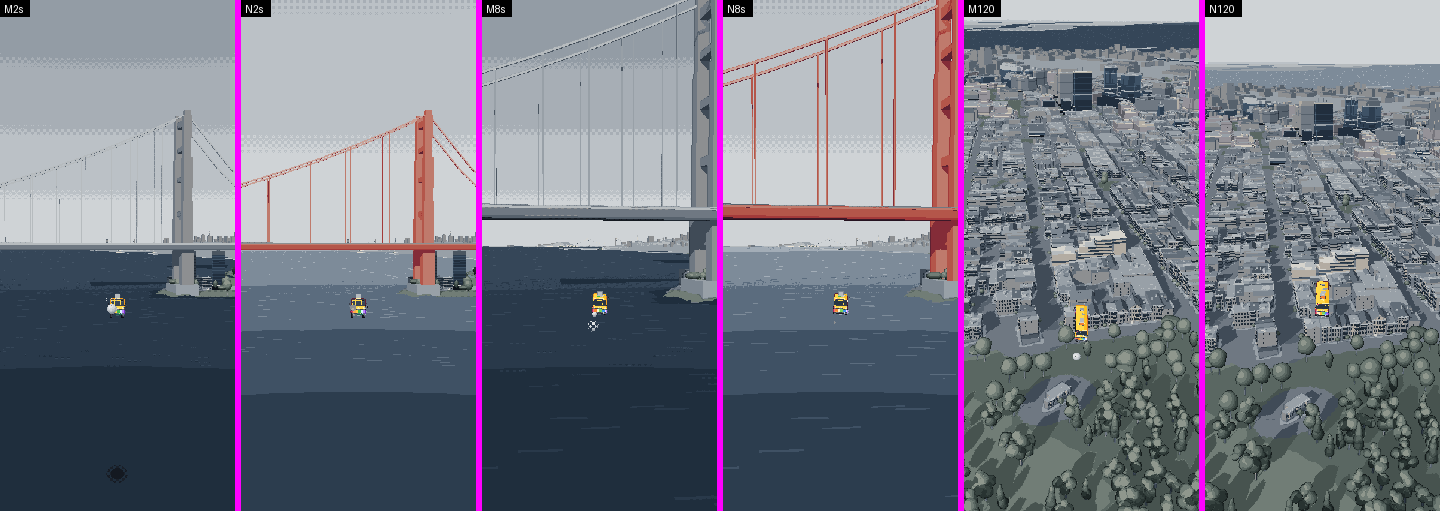
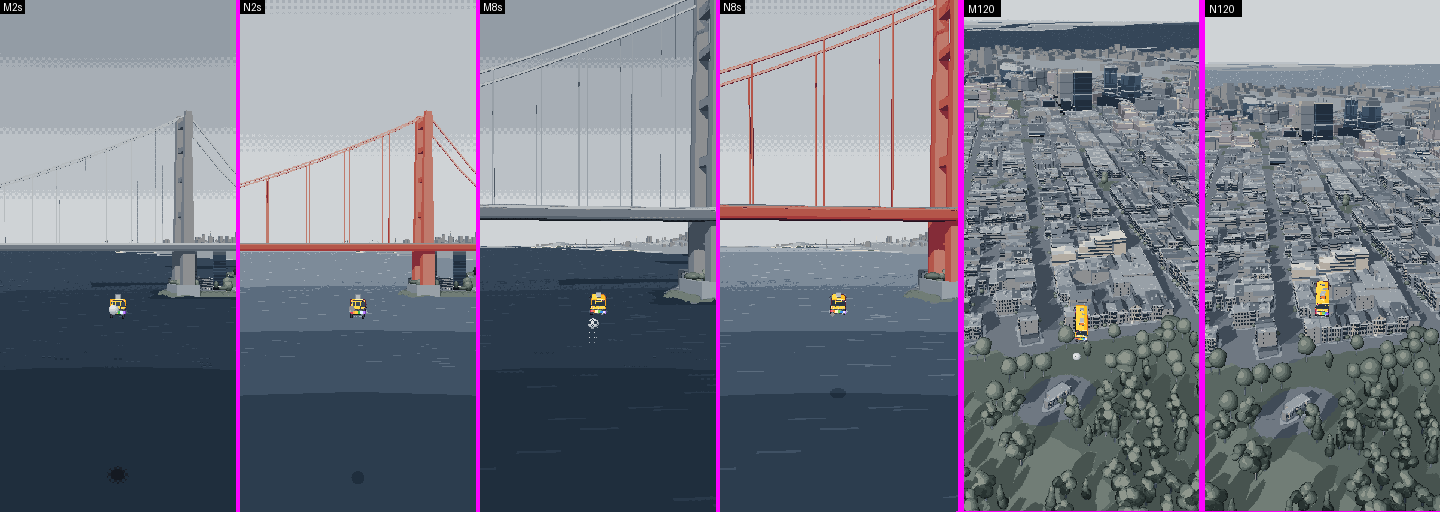
Merge review fixes: no sign behind a far landmark, the drop shadow on the bay
- Street sign: a spot that passed every other test (ring or fallback,
  landmark or not) also needs its blade's bottom edge seen over its whole
  sightline at five points across it (bladeSeen). The pole test samples only
  the first 60 m, and on Telegraph Hill the blade stood 310 m out behind Coit
  Tower and read "TELEGRA / H". The test uses the real footprints and
  landmark surfaces (roofAt, landmarkSurfaceAt): the obstacle grid stands
  ~10 m proud of a facade and hid the Ferry Building's readable sign. The
  non-landmark fallback also gets the whole-blade-in-frame test.
- Drop shadow: the resolve also takes the WATER ramp (the bay plane writes no
  outline flag), so the bus has its shadow over the bay in the opening.
- Docs (DECISIONS, ARCHITECTURE, HANDOFF) and shots/look sheets + numbers.

diff --git a/src/main.ts b/src/main.ts
@@ -373,7 +373,8 @@ async function boot() {
   // keep a game pixel at that distance. A re-splat of the same block flips the same sign. It stands at
   // its true depth (the painted houses in front of it keep covering it), preferring a spot whose pole
   // is seen to its foot; else its pole grows until the blade clears the roofs in front (never a blade
-  // hovering over the roofs with no pole).
+  // hovering over the roofs with no pole). Nothing farther along its sightline (a tower, a landmark up
+  // the hill) may hide any of the blade either: no sign beats half a blade.
   const pendingSigns: Array<{ ref: BuildingRef; hue: number; cx: number; cz: number; r: number; at: number; tries: number }> = [];
   let signSpot: { x: number; y: number; z: number; facing: number; scale: number; bias: boolean; pole: number; cx: number; cz: number; r: number; text: string; until: number } | null = null;
   /** How far (m) a point must rise for its sightline to the camera to clear the roofs and crowns over
@@ -409,6 +410,26 @@ async function boot() {
     return true;
   };
   const bladeTmp = [0, 0, 0, 0];
+  /** The blade's bottom edge (height yb, (hx, hz) = its half width along the view's right) is seen over
+   *  its whole sightline to the camera (every 6 m, to 90% of the way), at five points across it: a tower
+   *  or landmark more than 60 m in front (past what sightLift samples) hid half of the blade ("TELEGRA / H"
+   *  behind Coit Tower). Buildings and landmarks by their real footprints and surfaces, not the obstacle
+   *  grid: that is a collision grid (8 m cells, footprints grown 3-6 m) standing ~10 m proud of a facade,
+   *  and a sign on the Ferry Building's apron read as hidden by the building behind it. Only for a spot
+   *  that passed every other test (it samples the whole line). */
+  function bladeSeen(x: number, yb: number, z: number, hx: number, hz: number): boolean {
+    const c = camera.position;
+    for (let k = -1; k <= 1; k += 0.5) {
+      const px = x + hx * k, pz = z + hz * k;
+      const d = Math.max(1, Math.hypot(c.x - px, c.y - yb, c.z - pz));
+      for (let s = 6; s < 0.9 * d; s += 6) {
+        const t = s / d, qx = px + (c.x - px) * t, qz = pz + (c.z - pz) * t;
+        // (half a meter of slack at the blade, as sightLift's 0.5 m)
+        if (Math.max(city.roofAt(qx, qz) ?? -Infinity, city.landmarkSurfaceAt(qx, qz)) > yb + (c.y - yb) * t + 0.5 * (1 - t)) return false;
+      }
+    }
+    return true;
+  }
   const signFwd = new THREE.Vector3();
   const SIGN_RING: ReadonlyArray<readonly [number, number]> = [[0, 0], [6, 0], [-6, 0], [0, 6], [0, -6], [12, 0], [-12, 0], [0, 12], [0, -12], [9, 9], [-9, 9], [9, -9], [-9, -9]];
   /** Show (or re-flip) the sign of a blast at (cx, cz) of radius r. False: no open spot in frame yet, ask
@@ -482,6 +503,8 @@ async function boot() {
             if (Math.abs(signNdc.x) > 0.72 || signNdc.y > 0.7 || signNdc.y < -0.6 || signNdc.z > 1) continue;
             // (the whole blade in the frame, and never over a landmark primary's box)
             if (!bladeBox(x, y, z, hw, scale, pole, sx, sz, bladeTmp) || bladeTmp[0] < -0.96 || bladeTmp[2] > 0.96 || overLm(bladeTmp)) continue;
+            // (and nothing farther in front hides it: the pole test above sees only the first 60 m)
+            if (!bladeSeen(x, yb + pole, z, cx0, cz0)) continue;
             found = { x, y, z, facing: Math.atan2(-fx, -fz), scale, bias: true, pole, cx, cz, r, text, until: 0 };
             break;
           }
@@ -494,7 +517,8 @@ async function boot() {
         // far toward an end as the frame allows: off its box on screen if it can, else at least off its
         // middle (the landmark is the bloom; MAIN stood the sign at the middle of its face). Any other
         // primary: its own front only when that stands clear of the blast; inside it the blade would cover
-        // the bloom: then no sign this time.
+        // the bloom: then no sign this time. Either way only a blade wholly in the frame and seen over its
+        // whole sightline: else no sign (half a blade behind a tower reads as a glitch, not a name).
         if (tries < 2) return false;
         const f = lm ? city.edgeToward(ref, flight.x, flight.z) : city.frontOf(ref);
         const ex = -f.nz, ez = f.nx;
@@ -507,9 +531,9 @@ async function boot() {
             if (!lm && Math.hypot(gx - cx, gz - cz) < r + 4) continue;
             if (city.groundClassAt(gx, gz) === Ground.WATER || city.roofAt(gx, gz) !== null) continue;
             const gy = city.groundAt(gx, gz);
+            if (!bladeBox(gx, gy, gz, hw, 1, 0, sx, sz, bladeTmp) || bladeTmp[0] < -0.96 || bladeTmp[2] > 0.96 || bladeTmp[1] < -0.96 || bladeTmp[3] > 0.7) continue;
+            if (!bladeSeen(gx, gy + T.poleHeight - 1, gz, sx * hw, sz * hw)) continue;
             const spot = { x: gx, y: gy, z: gz, facing: Math.atan2(f.nx, f.nz), scale: 1, bias: true, pole: 0, cx, cz, r, text, until: 0 };
-            if (!lm) { found = spot; break; }
-            if (!bladeBox(gx, gy, gz, hw, 1, 0, sx, sz, bladeTmp) || bladeTmp[0] < -0.96 || bladeTmp[2] > 0.96 || bladeTmp[3] > 0.7) continue;
             if (!overLm(bladeTmp)) { found = spot; break; }
             spare ??= spot;
           }

diff --git a/src/render/PixelPipeline.ts b/src/render/PixelPipeline.ts
@@ -917,8 +917,9 @@ void main() {
   }
   bool heroRamp = busY || abs(ramp - RAMP_BUS_BLACK) < 0.5;
   // the hero's drop shadow: whatever faces up below the bus, inside an oval about its size, a ramp step
-  // darker in its own ramp (paint too: no grey blob punched into the bloom)
-  if (uHeroShadow.w > 0.0 && outlineable && !fogged && !heroRamp) {
+  // darker in its own ramp (paint too: no grey blob punched into the bloom). The open water too: the bay
+  // plane isn't outlineable, but over the bay (the opening's Golden Gate shot) it is the only height cue.
+  if (uHeroShadow.w > 0.0 && (outlineable || abs(ramp - ${Ramp.WATER}.0) < 0.5) && !fogged && !heroRamp) {
     vec3 cf = -normalize(vec3(uCamWorld[2].xyz));
     vec3 P = uCamPos + dir * (depth / max(dot(dir, cf), 0.05));
     vec2 bq = P.xz - uHeroShadow.xy;

diff --git a/HANDOFF.md b/HANDOFF.md
@@ -63,7 +63,7 @@ including merging into `main`.** None of the branches below has been merged yet.
 | `main` | preview v6 | blast, altitude/yoke, LiDAR towers, feel polish, 390 px frame, fog off, snappier springs, design docs | the base for everything |
 | `feat/facade` | built, NOT reviewed (12 commits) | facade families + style table + icon overrides (`src/world/towerStyles.ts`), bases/crowns, facade LOD by size on screen, painted towers (L2 hanging gardens, L3 bands), Coit Tower, Ferry Building, 181 Fremont spire (`props/landmarks.ts`), `tools/facade-shots.mjs` | review it (shots), fix, merge FIRST |
 | `fix/landmarks` | main merged in, review fixed, ready to merge (desktop session, 2026-10-23) | `City.addLandmarkBuilding`, paint reserve + its own name-keyed store, landmark paint (flood/L1-L3), glint, Transamerica + Sutro + Coit Tower + the Ferry Building paintable, 181 Fremont's spire paints with its tower | merge into main (its DECISIONS "Merged with main" has the numbers) |
-| `polish/look` | main merged in (facade + landmarks), review re-checked on the GPU and fixed, ready to merge (desktop session, 2026-10-23) | sky band, sign beside the blast, hero ink edge + headlight, drop shadow, puffs, GGB International Orange (`BRIDGE_ORANGE` row 23; `RAMP_COUNT` 48), water, tree crowns, one sky function shared with the facades, `tools/look.mjs` + `lookstat.py` | merge into main (its DECISIONS "Look polish" has the 390 px numbers, MAIN vs the merge) |
+| `polish/look` | main merged in (facade + landmarks), review re-checked on the GPU and fixed; merge review's two findings fixed (a sign half hidden behind a far landmark, no drop shadow over the bay), ready to merge (desktop session, 2026-10-24) | sky band, sign beside the blast, hero ink edge + headlight, drop shadow, puffs, GGB International Orange (`BRIDGE_ORANGE` row 23; `RAMP_COUNT` 48), water, tree crowns, one sky function shared with the facades, `tools/look.mjs` + `lookstat.py` | merge into main (its DECISIONS "Look polish" has the 390 px numbers, MAIN vs the merge) |
 | `feat/controls` | built, NOT reviewed (15 commits) | tilt-to-fly default on phones (`Tilt.ts`, fused attitude, recenter), touch fallback, keyboard, hold-to-charge + turbo in `Input.ts` (the INPUT CONTRACT), turbo gears G0-G3 (G2/G3 locked behind `config.turbo.worldTravel`), turbo FX + audio, `src/ui/Hud.ts`, `tools/controls.mjs` | review, merge before supersplat |
 | `feat/supersplat` | built, mid-QA (8 commits) | hold-to-charge (10 s), mega blast on early release, firehose (~4 s), 60 s cooldown, `SuperSplat.ts`/`SuperFx.ts`/`SuperMeter.ts`/`superSfx.ts`, `tools/supersplat.mjs` | finish QA, merge after controls: controls' gesture replaces supersplat's minimal hold; mount SuperMeter in `hud.slot('super')` |
 | `polish/perf` | paused mid-task (12 commits) | sun-pass caster proxy, 8 m wall columns, hidden party walls, depth-only sun pass, culled far chunks, budgeted streaming, prewarm, `tools/perf-pass.mjs` | finish + measure, merge after the above |

diff --git a/DECISIONS.md b/DECISIONS.md
@@ -903,6 +903,24 @@ cross-checked in the browser with `tools/feel.mjs`.
   sign stands anew beside this blast (the painted regression frame had two
   "ALAMO SQUARE" blades side by side, and a reused spot in front of the next
   blast's paint).
+  Nothing farther along the sightline may hide the blade either (merge
+  review): the pole test samples only the first 60 m, and on Telegraph Hill
+  (a tap from the east) the "TELEGRAPH HILL" blade stood 310 m out behind
+  Coit Tower's base and read "TELEGRA / H". A spot that passed every other
+  test (ring or fallback, landmark or not) now also needs its blade's bottom
+  edge seen over its whole sightline at five points across it
+  (`bladeSeen`), else the next spot, else no sign. That test uses the real
+  footprints and landmark surfaces (`roofAt`, `landmarkSurfaceAt`), not the
+  obstacle grid: that is a collision grid (8 m cells, footprints grown
+  3-6 m) and stands ~10 m proud of a facade, so it hid the Ferry
+  Building's readable sign on its own apron. Trees still count only in the
+  first 60 m. Hill poses at +3 s (shots/look/landmark-signs.png): Telegraph
+  Hill from the east no sign (no spot in frame is seen), Coit from the
+  north, south and west beside the tower and whole, the Ferry Building and
+  Transamerica unchanged. It runs only on a candidate that passed every
+  other test, so the frames after a hit cost what they did (2nd / 3rd
+  largest work 21.7 / 19.3 ms at Telegraph Hill, was 21.9 / 21.5; sampling
+  the whole line for every candidate, the review's scratch, took 28-30).
   holdGreen stays 2.2 s (the verifier: once it doesn't cover the paint,
   cutting it only costs reading time).
 - **The hero separates.** Its silhouette used its own ramp two steps down
@@ -936,7 +954,11 @@ cross-checked in the browser with `tools/feel.mjs`.
   inside an oval about the bus's footprint along its heading, one step
   darker in its own ramp (`PixelPipeline.setHeroShadow`; roof, street, lawn,
   crown and paint alike), a little bigger with a breath loaded, shrinking as
-  the gap below grows (14 -> 50 m).
+  the gap below grows (14 -> 50 m). The open bay too (merge review): the bay
+  plane writes no outline flag, so the resolve skipped it, and over the
+  water (the opening's Golden Gate shot, every bay crossing) the bus had no
+  shadow and no height cue; the WATER ramp now takes it (a ~360 px oval one
+  step darker on the water at the opening's 2 s and 5 s).
 - **The Golden Gate is International Orange**, muted, even in the grey world
   (it is never painted, so color still comes from paint): `Ramp.BRIDGE_ORANGE`
   (row 23, after the tower facades' GLASS / STONE / GRANITE; see Palette rows), shadows to rose and plum, the upper steps dusty (the fog

diff --git a/docs/ARCHITECTURE.md b/docs/ARCHITECTURE.md
@@ -59,7 +59,9 @@ They output a ramp index + light level + fog + glow through the GLSL chunks in
   - The hero's drop shadow is light too: `pipeline.setHeroShadow(x, z,
     underY, fx, fz, halfLength, halfWidth, steps)` each frame (after
     `snap()`), and the resolve draws whatever faces up below `underY` inside
-    that oval `steps` darker in its own ramp (paint included). No decal.
+    that oval `steps` darker in its own ramp (paint included; the open bay
+    too: the bay plane writes no outline flag, so the test also takes the
+    WATER ramp). No decal.
   - Flat-light test: a pixel dithers only if a neighbor's light byte sits on
     a real gradient (1.5 bytes up to the dither window, 72.86 x
     `ditherWidth`); a whole-step jump (a crisp band edge) rounds. Materials
@@ -341,7 +343,12 @@ impact frame shows the hit.
   (`City.groundClassAt`: the tile's 2 m ground class). No spot in frame:
   `showSign` returns false and the pending sign asks again 0.8 s later
   (twice); then the primary's front only if it lies outside the blast
-  (+4 m), else no sign. The whole blade must sit inside the frame. A
+  (+4 m), else no sign. The whole blade must sit inside the frame, and its
+  bottom edge must be seen over its whole sightline (`bladeSeen`: five
+  points across it, every 6 m to 90% of the way, against `City.roofAt` and
+  `City.landmarkSurfaceAt`, the real footprints; the obstacle grid stands
+  ~10 m proud of a facade): a tower or landmark past the pole test's 60 m
+  hid half a blade. Run only on a spot that passed every other test. A
   landmark primary is the bloom itself and reaches past the blast: no
   blade may overlap its projected box, and its fallback is its apron along
   the edge facing the bus (`City.edgeToward`), as far toward an end as the
